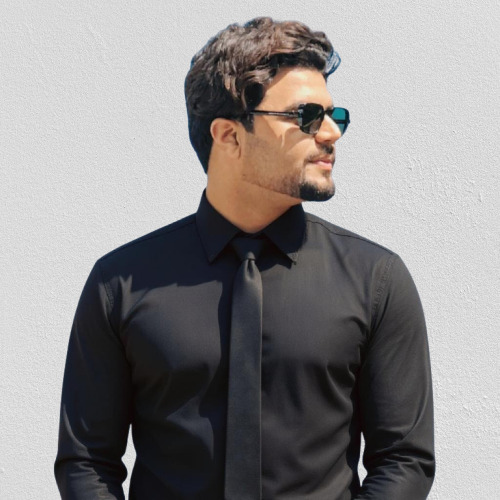
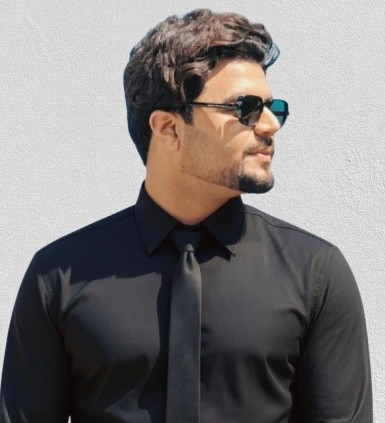
API Response Issue resolve

diff --git a/frontend/src/pages/landing/aboutData.js b/frontend/src/pages/landing/aboutData.js
@@ -1,5 +1,8 @@
+import israrPhoto from './assets/israr.jpeg';
 import shahHussainPhoto from './assets/shah-hussain.jpg';
-import ziaPhoto from './assets/zia.jpg';
+import fiazPhoto from './assets/fiaz.png';
+import ahmadPhoto from './assets/ahmad.png';
+import ziaPhoto from './assets/zia.jpeg';
 
 export const CO_FOUNDERS = [
   {
@@ -9,6 +12,7 @@ export const CO_FOUNDERS = [
     focus: 'Software consulting & investment support',
     bio: 'Advises on platform strategy, technical due diligence, and investment readiness. Helps connect engineering depth with the partnerships and capital ProPath needs to scale responsibly.',
     initials: 'IK',
+    photo: israrPhoto,
     accent: 'navy',
   },
   {
@@ -28,6 +32,7 @@ export const CO_FOUNDERS = [
     focus: 'Sprint review & product experience',
     bio: 'Co-originator of the ProPath idea. Shapes product direction in sprint reviews — from org admin flows to the student learning journey — so every screen serves how institutes teach and learners grow.',
     initials: 'FG',
+    photo: fiazPhoto,
     accent: 'slate',
   },
   {
@@ -37,6 +42,7 @@ export const CO_FOUNDERS = [
     focus: 'Assessment rigor & learning outcomes',
     bio: 'Co-originator of the ProPath idea. Shapes product direction in sprint reviews — from org admin flows to the student learning journey — so every screen serves how institutes teach and learners grow.',
     initials: 'AK',
+    photo: ahmadPhoto,
     accent: 'indigo',
   },
   {